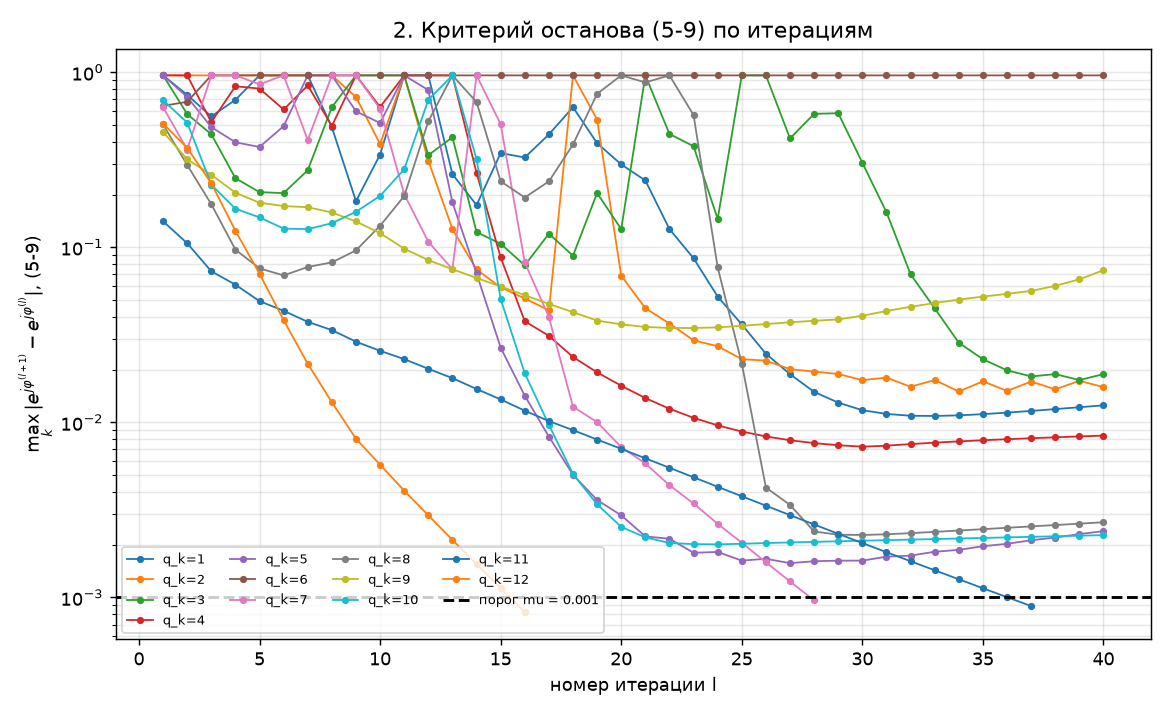
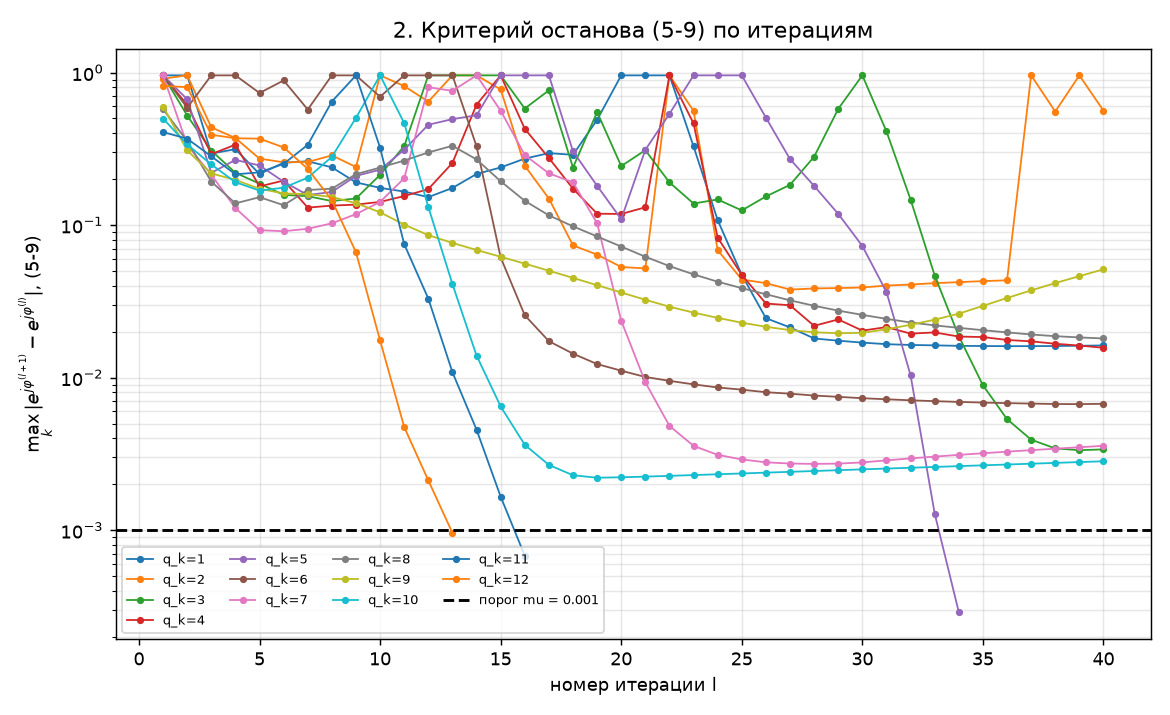
T-186: перехлёст блоков 0,25 — полосы на стыках, замер на настоящей записи
После этапа B без ИНС поправка стала большой (10…25 рад размаха), и
нарезка без перехлёста оставила на картинке «после» тёмную полосу на
каждом стыке блоков, с периодом 273 строки. Причина: поправка — свёртка
по азимуту на +-20 отсчётов, и крайним строкам сердцевины не хватает
соседей, которых в окне нет.

Стенд стыков не видит: остаток фазы меряется по бинам, контраст тонет
в разбросе сцен. Замер на срезе владельца — средняя |g| по строкам
стыков к средней по остальным (1,00 — стыка нет) и линейка по 8 целям:

    перехлёст   стык/фон   -3 дБ   -20 дБ   ISLR
    до счёта      0,997     1,80    7,24    -1,46
       0,00       0,724     1,30    4,11    -4,10   полосы видны глазом
       0,25       0,993     1,10    4,53    -5,19   полос нет

Взято 0,25: полос нет, главный лепесток уже, ISLR лучше; -20 дБ шире
на десятую элемента. Голос перехлёста допустим: начальная фаза у соседей
общая (решение №10), а на 15 м соседняя земля ошибку движения не меняет.
Цена: L = 2 m_b вместо 1,5 m_b.

README, решение №6: правило и история долей (0,5/0,5 -> 0,0/0,25 ->
0,25/0,25, каждый раз по замеру), таблица замера.

Стенд и финальные прогоны с этой константой идут; их числа — в
следующем коммите с отчётом.

Claude-Session: https://claude.ai/code/session_0131t2cRSN4FHWoUZqJmH65Q

diff --git a/lab/mn_mea/algorithm/stage_a_blocks.py b/lab/mn_mea/algorithm/stage_a_blocks.py
@@ -93,7 +93,27 @@ class Geometry:
 #: По контрасту все три НЕРАЗЛИЧИМЫ: разброс между сценами больше разницы
 #: между настройками. По остатку фазы лучший — 0,00 / 0,25, и он же втрое
 #: короче по длине преобразования, чем 0,50 / 0,50. Перехлёст не окупается.
-BLOCK_OVERLAP_FRACTION = 0.0
+#:
+#: ПЕРЕСМОТРЕНО НА НАСТОЯЩЕЙ ЗАПИСИ. Стенд стыков блоков не видит: остаток
+#: фазы меряется по бинам, контраст тонет в разбросе сцен. На срезе
+#: владельца (22 блока по 273 строки, поправка 10…25 рад размаха) нарезка
+#: без перехлёста оставляет на каждом стыке тёмную полосу: поправка — это
+#: свёртка по азимуту на +-20 отсчётов, и крайним строкам сердцевины
+#: не хватает соседей, которых в окне нет. Замер, средняя |g| по строкам
+#: стыков к средней по остальным (1,00 — стыка не видно), и линейка по
+#: восьми целям:
+#:
+#:   перехлёст   стык/фон   -3 дБ   -20 дБ   ISLR
+#:   до счёта      0,997
+#:      0,00       0,724     1,30    4,11    -4,10   полосы видны глазом
+#:      0,25       0,993     1,10    4,53    -5,19   полос нет
+#:
+#: Взято 0,25: полос нет, главный лепесток уже, ISLR лучше; -20 дБ шире на
+#: десятую элемента. Голоса перехлёст теперь имеет (маска сердцевины из
+#: критерия убрана, см. stage_c_iterate.core_mask), и это допустимо:
+#: начальная фаза у соседей общая (этап B без ИНС), а блок 15 м — соседняя
+#: земля ошибку движения не меняет. Цена: L = 2 m_b вместо 1,5 m_b.
+BLOCK_OVERLAP_FRACTION = 0.25
 
 #: Решение реализации №6, часть вторая: нули с каждой стороны, в долях m_b.
 #: Свёртка в (5-3) круговая; без запаса содержимое, уехавшее за верхний край,

diff --git a/lab/mn_mea/out/report.md b/lab/mn_mea/out/report.md
@@ -93,22 +93,22 @@
 * этап A: полуразмеры блока x_p = 10.03 м, y_p = 43.88 м; в отсчётах (5-22)/(5-23) m_p = 50.1, n_p = 73.1
 * этап A: (5-24)/(5-25)/(5-21) M_k = **6**, N_k = **2**, q = **12**
 * этап B: D_x = -5.2323e-07, D_y = 1.0193e-05
-* сошлось блоков: **3 из 12**; остаточное СКО по блокам: среднее 0.7319 рад, худшее 1.4399 рад
+* сошлось блоков: **3 из 12**; остаточное СКО по блокам: среднее 0.5926 рад, худшее 1.2126 рад
 
 | q_k | m_k | n_k | размер | eta (5-29) | итераций | сошлось | S до | S после | остаток, рад |
 |---:|---:|---:|---|---:|---:|---|---:|---:|---:|
-| 1 | 1 | 1 | 43x48 | -6.114 | 40 | False | 4.6202 | 3.0024 | 0.4322 |
-| 2 | 2 | 1 | 43x48 | -5.634 | 40 | False | 5.6082 | 4.6906 | 1.1973 |
-| 3 | 3 | 1 | 43x48 | -5.154 | 40 | False | 4.3329 | 2.4286 | 0.5358 |
-| 4 | 4 | 1 | 43x48 | -4.675 | 40 | False | 4.5732 | 2.5800 | 0.5273 |
-| 5 | 5 | 1 | 43x48 | -4.195 | 40 | False | 4.2734 | 2.7625 | 0.5598 |
-| 6 | 6 | 1 | 41x48 | -3.715 | 40 | False | 7.2921 | 7.2841 | 1.4399 |
-| 7 | 1 | 2 | 43x48 | -1.785 | 28 | True | 3.9722 | 2.6589 | 0.3156 |
-| 8 | 2 | 2 | 43x48 | -1.306 | 40 | False | 3.7762 | 2.2066 | 0.4156 |
-| 9 | 3 | 2 | 43x48 | -0.826 | 40 | False | 3.7066 | 3.0498 | 0.8558 |
-| 10 | 4 | 2 | 43x48 | -0.346 | 40 | False | 3.4642 | 2.3126 | 0.4471 |
-| 11 | 5 | 2 | 43x48 | 0.133 | 37 | True | 7.1004 | 7.0677 | 1.0995 |
-| 12 | 6 | 2 | 41x48 | 0.613 | 16 | True | 4.7608 | 4.4131 | 0.9574 |
+| 1 | 1 | 1 | 43x48 | -6.114 | 40 | False | 4.8904 | 3.0375 | 0.4368 |
+| 2 | 2 | 1 | 43x48 | -5.634 | 40 | False | 4.8986 | 2.9386 | 0.6195 |
+| 3 | 3 | 1 | 43x48 | -5.154 | 40 | False | 4.8310 | 2.9309 | 0.5117 |
+| 4 | 4 | 1 | 43x48 | -4.675 | 40 | False | 4.8553 | 3.8877 | 1.2126 |
+| 5 | 5 | 1 | 43x48 | -4.195 | 34 | True | 4.8990 | 2.9166 | 0.1800 |
+| 6 | 6 | 1 | 41x48 | -3.715 | 40 | False | 4.7814 | 3.3075 | 0.4389 |
+| 7 | 1 | 2 | 43x48 | -1.785 | 40 | False | 4.2028 | 3.0395 | 0.4376 |
+| 8 | 2 | 2 | 43x48 | -1.306 | 40 | False | 4.1132 | 3.7052 | 0.9780 |
+| 9 | 3 | 2 | 43x48 | -0.826 | 40 | False | 4.0522 | 3.4801 | 1.0539 |
+| 10 | 4 | 2 | 43x48 | -0.346 | 40 | False | 4.0859 | 2.9159 | 0.4414 |
+| 11 | 5 | 2 | 43x48 | 0.133 | 16 | True | 3.8529 | 2.8716 | 0.4344 |
+| 12 | 6 | 2 | 41x48 | 0.613 | 13 | True | 3.8574 | 2.4425 | 0.3668 |
 
 ## 5а. Что дал каждый способ — сводка
 
@@ -133,8 +133,8 @@
 
 | способ | сошлось | остаток, рад | контраст | пик |
 |---|---|---:|---:|---:|
-| разбиение по книге | 1/12 | 0.6284 | 32.85 | 100.1 |
-| один блок на всю сцену | 0/1 | 0.2574 | 28.09 | 98.1 |
+| разбиение по книге | 3/12 | 0.4993 | 32.75 | 100.4 |
+| один блок на всю сцену | 0/1 | 0.2488 | 28.05 | 98.2 |
 | идеальная сцена — потолок | — | — | 32.59 | 100.3 |
 
 Разброс истины между блоками — до 1.206 рад СКО: вот это один блок исправить и не может. Здесь разбиение наконец ВЫИГРЫВАЕТ, чего на неизменчивом стенде не было и быть не могло.
@@ -146,7 +146,7 @@
 | способ | сошлось | остаток, рад | контраст | пик |
 |---|---|---:|---:|---:|
 | один блок на всю сцену (q = 1) | нет | 0.2750 | 31.80 | 99.6 |
-| разбиение по книге | 3/12 | 0.7319 | 30.20 | 97.1 |
+| разбиение по книге | 3/12 | 0.5926 | 26.88 | 98.8 |
 | идеальная сцена — потолок | — | — | 32.59 | 100.3 |
 
 Один блок упирается в потолок. Это НЕ довод против разбиения: это значит, что чинить разбиению на таком стенде нечего, и всякий вывод о качестве этапов A и B по этим числам будет о чём-то другом. См. README, «Чего в этой работе НЕТ», пункт 1.
@@ -163,8 +163,8 @@
 
 | бэкенд | видеокарта | мс на итерацию | M x N |
 |---|---|---:|---|
-| numpy | нет | 7.73 | 512x128 |
-| numpy32 | нет | 2.53 | 512x128 |
+| numpy | нет | 2.74 | 512x128 |
+| numpy32 | нет | 2.49 | 512x128 |
 
 ## 7. Стоимость итерации: счётчиком, а не утверждением (§10.6, §10.7)
 
@@ -201,14 +201,14 @@
 
 | предел шага, рад | сошлось блоков | итераций (ср.) | остаток (ср.), рад | критерий = 2, раз |
 |---:|---|---:|---:|---:|
-| pi (прежнее, НЕВЕРНОЕ) | 7/12 | 33.8 | 0.5486 | 5 |
-| 1.5 | 9/12 | 30.1 | 0.5300 | 0 |
-| 1 ← взято | 8/12 | 33.8 | 0.5301 | 0 |
-| 0.5 | 7/12 | 33.9 | 0.5761 | 0 |
-| 0.3 | 7/12 | 34.1 | 0.5786 | 0 |
-| 0.1 | 5/12 | 36.9 | 0.5819 | 0 |
-| 0.05 | 3/12 | 37.6 | 0.6585 | 0 |
-| 0.02 | 3/12 | 39.2 | 0.9151 | 0 |
+| pi (прежнее, НЕВЕРНОЕ) | 3/12 | 36.4 | 0.3819 | 5 |
+| 1.5 | 4/12 | 34.3 | 0.3436 | 0 |
+| 1 ← взято | 4/12 | 36.1 | 0.3506 | 0 |
+| 0.5 | 3/12 | 36.6 | 0.3875 | 0 |
+| 0.3 | 4/12 | 35.1 | 0.3894 | 0 |
+| 0.1 | 1/12 | 39.6 | 0.3914 | 0 |
+| 0.05 | 0/12 | 40.0 | 0.4891 | 0 |
+| 0.02 | 0/12 | 40.0 | 0.8688 | 0 |
 
 ### Решение №5: снятие сдвига блока перед укладкой
 
@@ -216,8 +216,8 @@
 
 | (5-26) | блоков с целями на своём месте | средний сдвиг | худший | S (среднее) |
 |---|---:|---:|---:|---:|
-| со снятием (рабочая форма) | 50.0 % | 0.62 отсчёта | 2 | 4.1966 |
-| без снятия | 20.8 % | 2.54 отсчёта | 10 | 4.1966 |
+| со снятием (рабочая форма) | 33.3 % | 0.83 отсчёта | 2 | 4.1496 |
+| без снятия | 20.8 % | 2.75 отсчёта | 9 | 4.1496 |
 
 ### Решение №6: окно блока с перехлёстом и нулями
 
@@ -230,11 +230,11 @@
 | 0.00 ← как в книге | 0.00 | 43 | 2.3/12 | 0.7848 | 31.56 | 99.5 |
 | 0.00 | 0.50 | 86 | 2.7/12 | 0.7976 | 32.14 | 99.7 |
 | 0.50 | 0.00 | 86 | 2.0/12 | 0.6050 | 31.88 | 99.5 |
-| 0.25 | 0.25 | 86 | 3.0/12 | 0.6530 | 31.48 | 99.4 |
+| 0.25 ← взято | 0.25 | 86 | 3.0/12 | 0.6530 | 31.48 | 99.4 |
 | 0.50 | 0.50 | 129 | 2.3/12 | 0.6265 | 32.38 | 99.6 |
 | 1.00 | 1.00 | 215 | 3.3/12 | 0.5979 | 32.06 | 99.2 |
 
-Цена: длина (5-3) выросла с m_b до 1.5 m_b, значит и оба азимутальных БПФ итерации во столько же раз длиннее. Число БПФ на итерацию не изменилось — см. раздел 7.
+Цена: длина (5-3) выросла с m_b до 2 m_b, значит и оба азимутальных БПФ итерации во столько же раз длиннее. Число БПФ на итерацию не изменилось — см. раздел 7.
 
 ### Решение №7: весовое окно по азимуту
 
@@ -344,14 +344,14 @@
 
 | (5-29) | eta | max СКО phi(0), рад | нач. расхождение, рад | итераций (ср.) | сошлось блоков |
 |---|---|---:|---:|---:|---|
-| с членом (рабочая форма) | [-6.11, 0.61] | 7.73 | 1.275 | 36.8 | 3/12 |
-| без члена | [-0.72, 0.71] | 0.90 | 0.868 | 32.8 | 6/12 |
+| с членом (рабочая форма) | [-6.11, 0.61] | 7.73 | 1.276 | 35.2 | 3/12 |
+| без члена | [-0.72, 0.71] | 0.90 | 0.868 | 32.4 | 6/12 |
 
 * **длина преобразования (5-3)** — расхождение книги СЕДЬМОЕ, в её собственный список §8 не попавшее. §4.5 и блок-схема §7 называют phi(0) «вектором длины M», где M — размер сцены; §5, открывая этап C, объявляет «далее M, N — размеры блока». Взято второе: длина суммы по k в (5-3) и есть длина преобразования. Чего это стоит:
 
 | способ | длина (5-3) | сошлось | остаток, рад | S (5-6) | контраст | пик | энергии вне блока |
 |---|---|---|---:|---:|---:|---:|---:|
-| блочное ПФ (как в §5) | m_b блока | 3/12 | 0.7319 | 4.9421 | 30.20 | 97.1 | 0.0 % |
+| блочное ПФ (как в §5) | m_b блока | 3/12 | 0.5926 | 5.1807 | 26.88 | 98.8 | 0.0 % |
 | сценное ПФ | M сцены | 0/12 | 0.9861 | 5.5627 | 21.86 | 97.4 | 6.3 % |
 | идеальная сцена | — | — | 0.0000 | 4.6914 | 32.59 | 100.3 | 0.0 % |
 
@@ -366,7 +366,7 @@
 | короткий блок (M=16) | 11 | True | 4.032e-02 |
 | один строб дальности (N=1) | 40 | False | 6.149e-01 |
 | узкий по азимуту (M=8) | 13 | True | 3.111e-02 |
-| обрезанный блок q_k=8: 19 бинов против 26 у номинального (M=201, M_k=8) | 21 | True | 9.101e-01 |
+| обрезанный блок q_k=8: 19 бинов против 26 у номинального (M=201, M_k=8) | 14 | True | 7.460e-02 |
 | обрезанный блок q_k=16: 1 бинов против 4 у номинального (M=61, M_k=16) | 1 | False | 0.000e+00 |
 
 * **§3.7 документа**: §3.7 без поперечного ускорения: M_k=6, N_k=1, q=6; разбиение чисто азимутальное: True, номера блоков по (5-26) [1, 2, 3, 4, 5, 6]

diff --git a/lab/mn_mea/README.md b/lab/mn_mea/README.md
@@ -445,10 +445,14 @@ s    = argmax |F|                      положение пика
 **Правило.** Для счёта берётся окно шире плитки:
 
 ```
-перехлёст  0,5·m_b строк соседей с каждой стороны
-нули       0,5·m_b нулей с каждой стороны
-длина (5-3)  L = m_b + 2·0,5·m_b + 2·0,5·m_b = 3·m_b
+перехлёст  0,25·m_b строк соседей с каждой стороны
+нули       0,25·m_b нулей с каждой стороны
+длина (5-3)  L = m_b + 2·0,25·m_b + 2·0,25·m_b = 2·m_b
 ```
+
+(Доли менялись трижды, и все три раза по замеру: 0,5/0,5 на первом
+стенде, 0,0/0,25 на изменчивом стенде, 0,25/0,25 на настоящей записи —
+история ниже.)
 
 Обратно в мозаику идёт **только сердцевина**, ровно `m_b` строк. Поэтому
 укладка (5-26) остаётся точной плиткой без нахлёста: перехлёст нужен внутри
@@ -521,6 +525,25 @@ S = E_core/S_g + ln S_g = H_core + (1 − E_core/S_g)·ln S_g
 Границы сердцевины остались для укладки в этапе D. Стенд после правки:
 приёмка §10 выполнена вся, остаток по книжной нарезке 0,628 против 0,623
 рад, контраст 32,85 против 32,78 — в пределах шума стенда.
+
+**Перехлёст ВОЗВРАЩЁН, 0,25 — замером на настоящей записи.** Стенд стыков
+блоков не видит: остаток фазы меряется по бинам, а контраст тонет в
+разбросе сцен. На срезе владельца при поправке 10…25 рад размаха нарезка
+без перехлёста оставляет на каждом стыке тёмную полосу: поправка — свёртка
+по азимуту на ±20 отсчётов, и крайним строкам сердцевины не хватает
+соседей, которых в окне нет. Замер — средняя |g| по строкам стыков к
+средней по остальным строкам (1,00 — стыка не видно) и линейка по восьми
+целям:
+
+| перехлёст | стык/фон | −3 дБ | −20 дБ | ISLR, дБ | глазом |
+|---:|---:|---:|---:|---:|---|
+| до счёта | 0,997 | 1,80 | 7,24 | −1,46 | |
+| 0,00 | **0,724** | 1,30 | 4,11 | −4,10 | полосы с периодом блока |
+| **0,25 — взято** | 0,993 | **1,10** | 4,53 | **−5,19** | полос нет |
+
+Голоса перехлёст теперь имеет — маска убрана, — и это допустимо: начальная
+фаза у соседей общая (решение №10), а на 15 м соседняя земля ошибку
+движения не меняет. Цена: L = 2·m_b вместо 1,5·m_b.
 
 ## Решение реализации №7: пустые доплеровские бины
 
